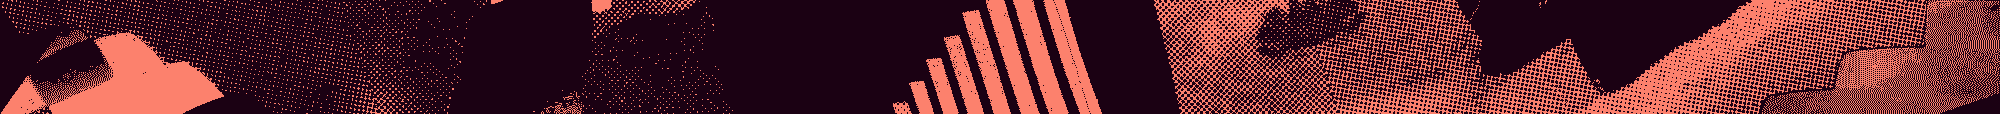
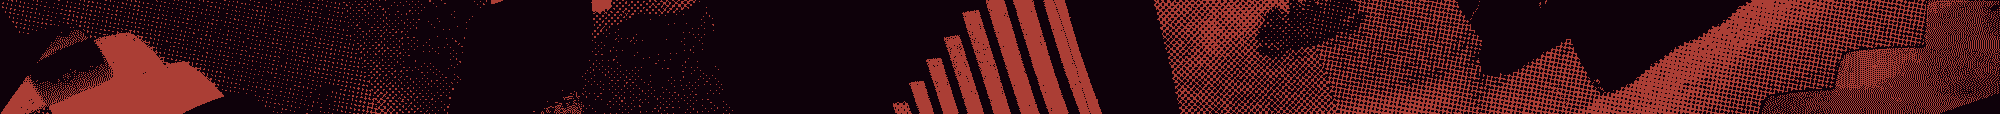
Rhombus toggle, Rate/Schedule label, updated collage (v60)
- Page toggle restyled as parallelogram clip-path shapes
- Artists → Rate label on both pages
- Updated low-contrast collage-2-color.png

diff --git a/style.css b/style.css
@@ -161,34 +161,36 @@ body {
   white-space: nowrap;
 }
 
-/* Artist side — crimson */
+/* Artist/Rate side — crimson */
 .page-toggle__artist {
-  border: 2px solid var(--nav-accent);
-  border-right: none;
-  border-radius: 999px 0 0 999px;
+  clip-path: polygon(10px 0, 100% 0, calc(100% - 10px) 100%, 0 100%);
+  border: none;
+  border-radius: 0;
+  padding: 3px 22px 3px 14px;
   color: var(--nav-accent);
-  background: transparent;
+  background: rgba(187,18,77,0.18);
 }
 .page-toggle__artist.active {
   background: var(--nav-accent);
   color: #fff;
 }
-.page-toggle__artist:not(.active):hover { background: var(--nav-accent-alpha); }
-
+.page-toggle__artist:not(.active):hover { background: rgba(187,18,77,0.35); }
 
 /* Schedule side — turquoise */
 .page-toggle__schedule {
-  border: 2px solid #00bcd4;
-  border-left: none;
-  border-radius: 0 999px 999px 0;
+  clip-path: polygon(10px 0, 100% 0, calc(100% - 10px) 100%, 0 100%);
+  border: none;
+  border-radius: 0;
+  padding: 3px 14px 3px 22px;
+  margin-left: -10px;
   color: #00bcd4;
-  background: transparent;
+  background: rgba(0,188,212,0.15);
 }
 .page-toggle__schedule.active {
   background: #00bcd4;
   color: #000;
 }
-.page-toggle__schedule:not(.active):hover { background: rgba(0,188,212,0.12); }
+.page-toggle__schedule:not(.active):hover { background: rgba(0,188,212,0.3); }
 
 .header__stats {
   display: flex;

diff --git a/schedule.html b/schedule.html
@@ -15,7 +15,7 @@
     <div class="header__brand">
       <div class="header__title">FestWiz</div>
       <div class="page-toggle">
-        <a href="/" class="page-toggle__half page-toggle__artist" id="sched-back-link">Artists</a>
+        <a href="/" class="page-toggle__half page-toggle__artist" id="sched-back-link">Rate</a>
         <a href="/schedule" class="page-toggle__half page-toggle__schedule active">Schedule</a>
       </div>
     </div>

diff --git a/index.html b/index.html
@@ -16,7 +16,7 @@
     <div class="header__brand">
       <div class="header__title" id="btn-about">FestWiz</div>
       <div class="page-toggle">
-        <a href="/" class="page-toggle__half page-toggle__artist active">Artists</a>
+        <a href="/" class="page-toggle__half page-toggle__artist active">Rate</a>
         <a href="/schedule" class="page-toggle__half page-toggle__schedule" id="btn-schedule">Schedule</a>
       </div>
     </div>

diff --git a/service-worker.js b/service-worker.js
@@ -2,7 +2,7 @@
  * Bump CACHE_NAME after each artists.json / shows.json data push to force refresh.
  */
 
-const CACHE_NAME = 'sxsw-v59';
+const CACHE_NAME = 'sxsw-v60';
 
 const PRECACHE = [
   '/',
